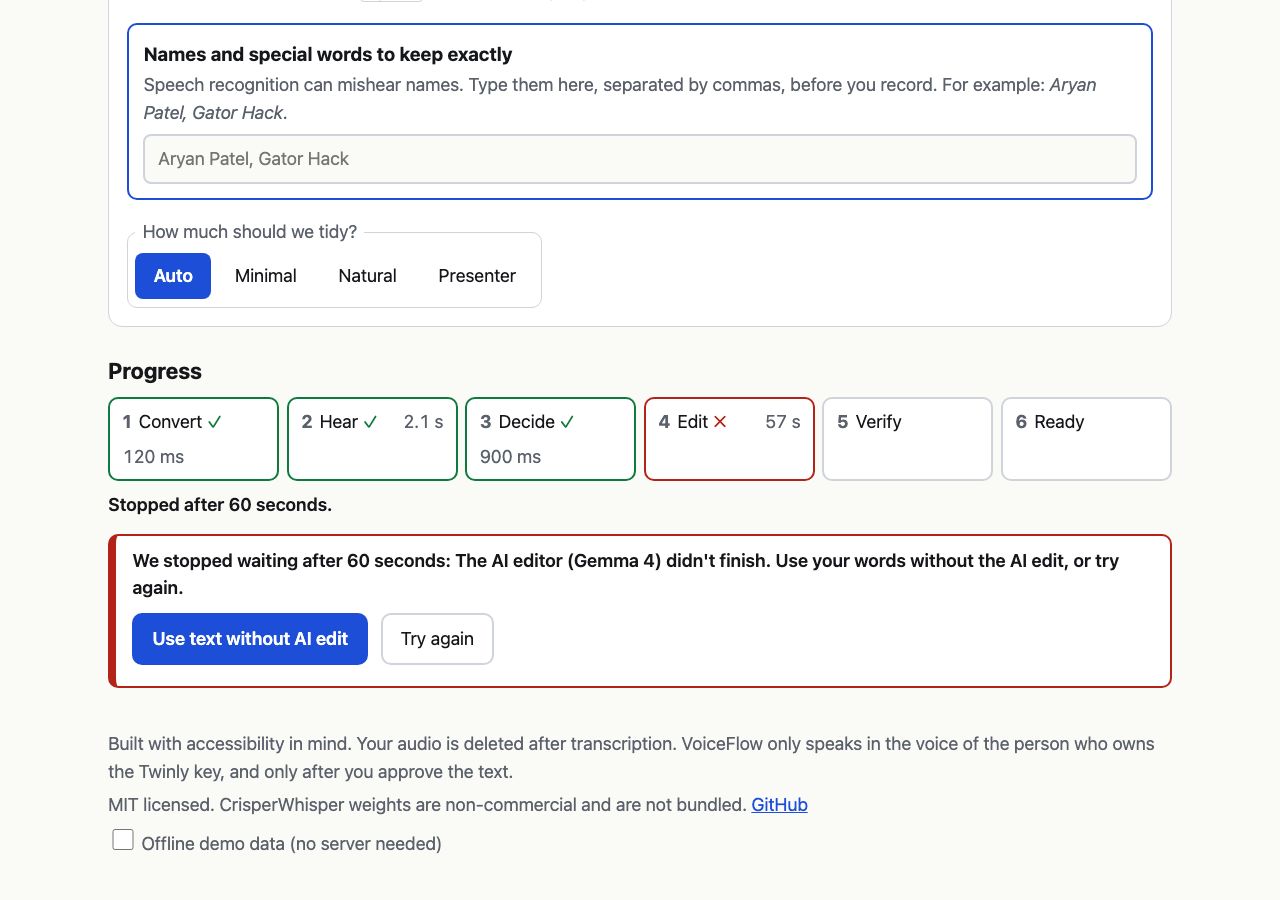
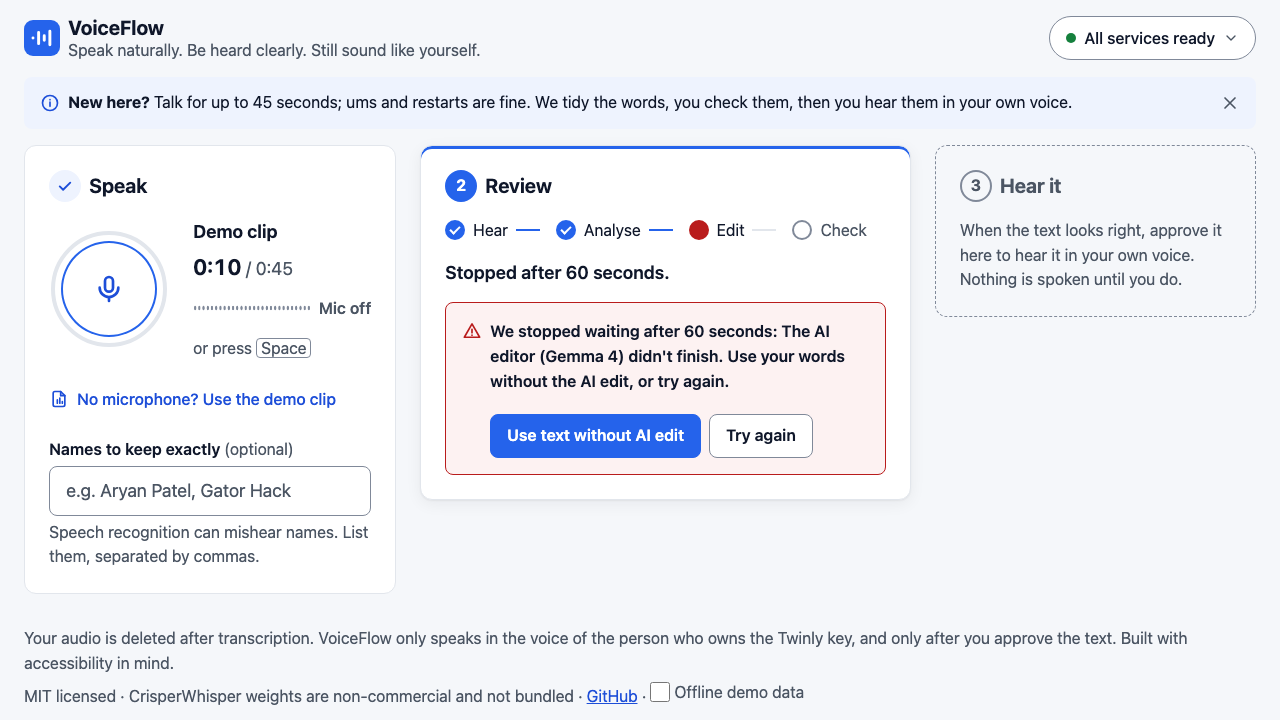
stage: frontend round 3 - screenshots, demo.gif, real-run screenshot, e2e 174/174, legend and live-box polish

diff --git a/frontend/app.js b/frontend/app.js
@@ -681,6 +681,7 @@ function hardStop() {
     "Use your words without the AI edit, or try again.";
   $("watch-time").textContent = "";
   $("watch").hidden = false;
+  $("elapsed").textContent = "";
   setStatus("Stopped after 60 seconds.");
 }
 
@@ -821,7 +822,7 @@ function renderDiff() {
   const ops = diffWords(app.job.verbatim, $("final-text").value);
   const edited = $("final-text").value.trim() !== (app.baseRewrite || app.job.rewrite || "").trim();
   const box = $("diff"); box.replaceChildren();
-  let k = 0;
+  let k = 0, hunks = 0;
   while (k < ops.length) {
     if (ops[k].t === "eq") { box.append(ops[k].w + " "); k++; continue; }
     const dels = [], inss = [];
@@ -835,7 +836,10 @@ function renderDiff() {
     if (n) h.append(el("ins", { text: n }));
     h.append(el("span", { class: "chip", "aria-hidden": "true", text: reason }));
     box.append(h, " ");
+    hunks++;
   }
+  app.hunks = hunks;
+  syncLegend();
   renderNames();
 }
 
@@ -846,8 +850,14 @@ function showView(which) {
   $("show-said").setAttribute("aria-pressed", String(said));
   $("view-final").hidden = said || app.editing;
   $("view-said").hidden = !said;
-  $("legend").hidden = said;
   $("said-legend").hidden = !said;
+  syncLegend();
+}
+// The removed/added key only makes sense when something changed.
+function syncLegend() {
+  const said = $("show-said").getAttribute("aria-pressed") === "true";
+  $("legend").hidden = said || !app.hunks;
+  $("no-changes").hidden = said || !!app.hunks;
 }
 
 const PRED_LABEL = {

diff --git a/frontend/style.css b/frontend/style.css
@@ -218,7 +218,7 @@ body[data-state="recording"] .rec-stop { display: block; }
 .meter-label[data-s="speech"] { color: var(--c-accent-strong); }
 .hint { font-size: var(--fs-sm); color: var(--c-text-2); }
 
-body[data-phase="review"] .live, body[data-phase="hear"] .live { display: none; }
+body[data-phase="review"] .live, body[data-phase="hear"] .live, body[data-phase="process"] .live:not([data-s="text"]) { display: none; }
 .live { border: 1px dashed var(--c-line-strong); border-radius: var(--r-sm); padding: var(--sp-1) var(--sp-2) var(--sp-2); background: var(--c-subtle); }
 .live-head { display: flex; flex-wrap: wrap; align-items: baseline; gap: var(--sp-half) var(--sp-1); margin-bottom: var(--sp-half); }
 .tag { font-size: var(--fs-sm); font-weight: 600; color: var(--c-accent-strong); }

diff --git a/frontend/index.html b/frontend/index.html
@@ -184,6 +184,7 @@
           </div>
         </div>
         <p id="legend" class="legend"><del>Removed</del> <ins>Added</ins> <span>Hover or focus a change to see why.</span></p>
+        <p id="no-changes" class="legend" hidden>No changes: this is exactly what we heard.</p>
         <p id="said-legend" class="legend" hidden>Exactly what speech recognition heard. <span class="filler">Filler words</span> are underlined.</p>
 
         <section id="names" class="names" hidden aria-labelledby="h-names">

diff --git a/frontend/e2e/e2e.py b/frontend/e2e/e2e.py
@@ -45,6 +45,8 @@ def live_calls():
 
 def shot(pg, name, full=False):
     SHOTS.mkdir(parents=True, exist_ok=True)
+    pg.mouse.move(1, 1)  # no stray hover styles in the docs
+    pg.wait_for_timeout(200)
     pg.screenshot(path=str(SHOTS / f"{name}.png"), full_page=full)
 
 
@@ -635,6 +637,7 @@ def case_real(b):
     pg.click("#demo")
     pg.wait_for_selector("#result:not([hidden])", timeout=70000)
     pg.wait_for_timeout(800)
+    pg.evaluate("window.scrollTo(0, 0)")
     check("real backend: demo clip reaches Review", "Ariane" in pg.inner_text("#verbatim") or len(pg.inner_text("#verbatim")) > 20, pg.inner_text("#verbatim")[:80])
     shot(pg, "real-run")
     print("  real run: rung=", pg.evaluate("app.job.rung"), " check=", pg.inner_text("#check"), " status=", pg.inner_text("#status-sum"))

diff --git a/PROGRESS.md b/PROGRESS.md
@@ -102,5 +102,7 @@ Phases: 0 skeleton -> 1 MOCK + ASR + guard basics + UI skeleton -> 2 rewrite + v
 - [x] R3-3 Speak: big record button + 45 s ring, live level meter (AnalyserNode, reduced-motion aware), live transcript via POST /api/live (hidden on 404), demo clip, names field, first-run hint; verified against T1's MOCK /api/live (2026-10-24 10:43)
 - [x] R3-4 processing line (hear -> analyse -> edit -> check) + restyled watchdog; Review: inline diff with reasons, compare toggle, editable text, one meaning-check line, "How this was made" panel; new notes (no credits, self-corrections fixed by rules) explained (2026-10-24 10:43)
 - [x] R3-5 Hear it: speak button with disabled reason, custom player (progress, replay, download, synthetic label), inline speak errors with fix steps (2026-10-24 10:43)
-- [ ] R3-6 e2e rewritten: happy path with fake mic + live transcript, all R2 failure paths, keyboard-only, 16 px / 4.5:1 / 3:1 audit, 1280x720 + 200% zoom
-- [ ] R3-7 screenshots + demo.gif regenerated from MOCK; one real-server screenshot; list for T2
+- [x] R3-6 e2e rewritten: happy path with fake mic + live transcript, all R2 failure paths, keyboard-only, 16 px / 4.5:1 / 3:1 audit, 1280x720 + 200% zoom: 174/174 pass (fake mic = demo-clip.m4a, Chrome muted; live contract checked: cumulative webm, increasing seq, max 1 in flight, 429 skip, 404 hides) (2026-10-24 10:54)
+- [x] R3-7 screenshots + demo.gif (22 s, 2.8 MB) regenerated from MOCK; real-run.png from :8000 (non-speaking) (2026-10-24 10:54)
+  - **For T2 (README):** same names kept: `idle`, `ready`, `guard-blocked`, `playing`, `fallback-minimal`, `names-check`, `speak-twinly-offline`, `speak-job-unverified`, `watchdog-slow-edit`, `watchdog-hard-stop` (.png in docs/screenshots/), `docs/demo.gif`. New: `recording-live.png` (meter + live draft), `status-popover.png` (no_credits / auth_error), `zoom-200.png`, `real-run.png` (REAL run on :8000, demo clip, no speak). Removed: `ready-dark.png` (dark mode dropped; README line "More in docs/screenshots/ (dark theme, ...)" needs editing). README test line: e2e is now 174 checks; run `python frontend/e2e/e2e.py` (`real` case separate).
+  - Note for T1: the server on :8000 still runs pre-R3 code (health says gemma ok, demo clip lands on rung `original`); restart it to get no_credits health and the rules-based self-correction rung in the demo.
